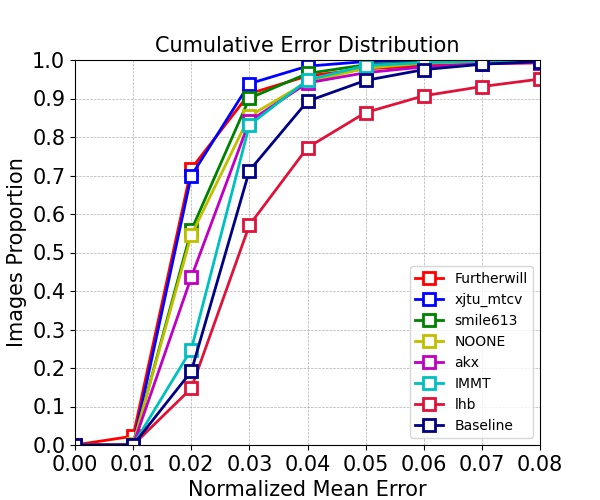
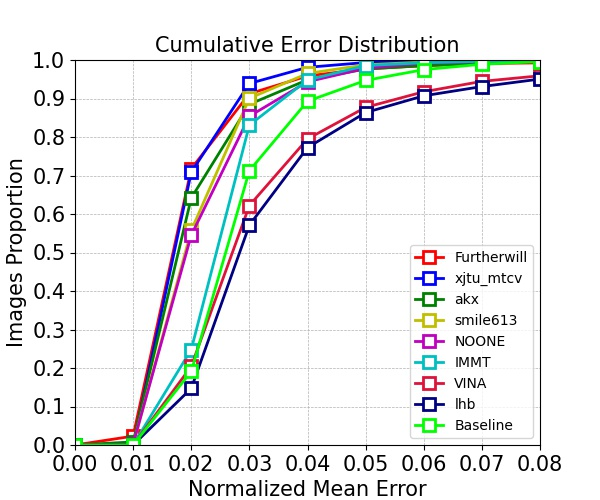
update leaderboard

Changed region(s): [[0.12, 0.12, 0.9, 0.9], [0.69, 0.48, 0.9, 0.87]]

diff --git a/leaderboard/index.html b/leaderboard/index.html
@@ -90,12 +90,20 @@
 <td align="center"> 2</td>
 <td align="center">xjtu_mtcv</td>
 <td align="center">Xi’an Jiaotong University</td>
-<td align="center">76.13</td>
+<td align="center">76.24</td>
 <td align="center">0.05</td>
-<td align="center">1.92</td>
+<td align="center">1.90</td>
 </tr>
 <tr>
 <td align="center"> 3</td>
+<td align="center">akx</td>
+<td align="center">Imperial-Vision Technology</td>
+<td align="center">74.28</td>
+<td align="center">0.40</td>
+<td align="center">2.07</td>
+</tr>
+<tr>
+<td align="center"> 4</td>
 <td align="center">smile613</td>
 <td align="center">-</td>
 <td align="center">73.39</td>
@@ -103,20 +111,12 @@
 <td align="center">2.13</td>
 </tr>
 <tr>
-<td align="center"> 4</td>
+<td align="center"> 5</td>
 <td align="center">NOONE</td>
 <td align="center">UCAS</td>
 <td align="center">72.47</td>
 <td align="center">0.20</td>
 <td align="center">2.21</td>
-</tr>
-<tr>
-<td align="center"> 5</td>
-<td align="center">akx</td>
-<td align="center">Imperial-Vision Technology</td>
-<td align="center">70.57</td>
-<td align="center">0.65</td>
-<td align="center">2.38</td>
 </tr>
 <tr>
 <td align="center"> 6</td>
@@ -125,6 +125,14 @@
 <td align="center">68.89</td>
 <td align="center">0.05</td>
 <td align="center">2.49</td>
+</tr>
+<tr>
+<td align="center"> 7</td>
+<td align="center">VINA</td>
+<td align="center">HUST</td>
+<td align="center">60.40</td>
+<td align="center">4.10</td>
+<td align="center">3.30</td>
 </tr>
 <tr>
 <td align="center"> 7</td>
